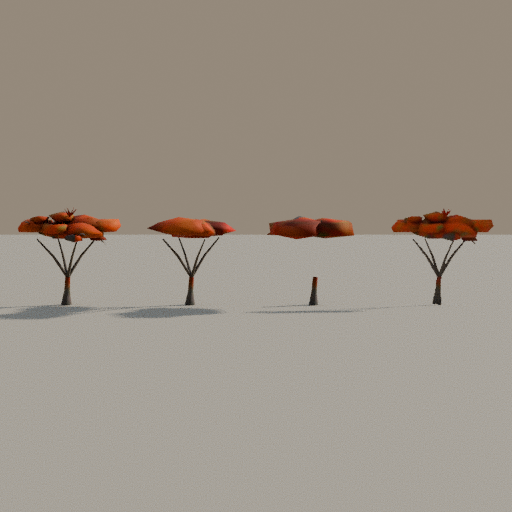
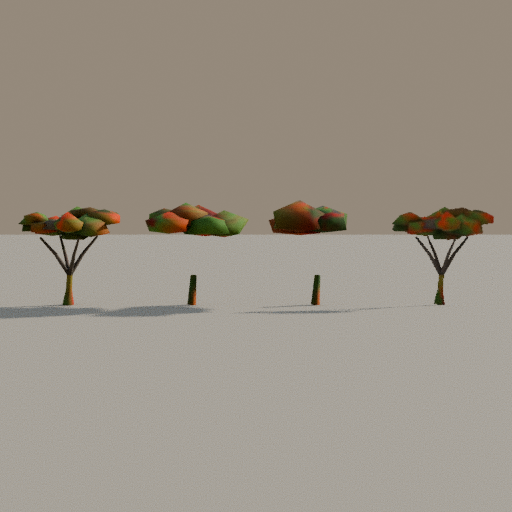
Nostalgia props: WIP checkpoint (trees, fauna in progress)
Claude-Session: https://claude.ai/code/session_012JpAoggZPtHm9fJ1oEKQtE

Changed region(s): [[0.0, 0.375, 0.6875, 0.625], [0.75, 0.4062, 0.9688, 0.5938], [0.5938, 0.5312, 0.625, 0.5938]]

diff --git a/nostalgia/tools/blender/props_fauna.py b/nostalgia/tools/blender/props_fauna.py
@@ -316,7 +316,10 @@ def build_bird(A, S):
         tl = sheet('tail', rows, (lambda i, k, tm=tm: Mt[tm(i, k)]) if callable(tm) else Mt[tm])
         kit.weights(tl, 'tail')
         objs.append(tl)
-    # legs
+    # legs (built standing, then tucked back: the bind pose is a clean flight pose)
+    legobjs = []
+    bz = S['bodyZ']
+    tuck = S['clip'].get('tuck', 1.35)
     if S.get('legs'):
         L = S['legs']
         for s, sfx in ((1, 'L'), (-1, 'R')):
@@ -325,7 +328,7 @@ def build_bird(A, S):
             pts = [(s * hx, hy, hz)] + [(s * hx * k, y, z) for (k, y, z) in L.get('mid', [])] + [(s * hx, fy, 0.02 * sc)]
             lg = P.taper('leg', pts, L['r'], seg=3, mat=Mt[L['mat']], cap_end=False)
             kit.weights(lg, 'leg_' + sfx)
-            objs.append(lg)
+            legobjs.append(lg)
             tl_ = L['toe']
             tw = tl_ * 0.12
             fx = s * hx
@@ -338,8 +341,17 @@ def build_bird(A, S):
                 toes.append(sheet('toe', [[b - sd, b + sd], [b + d * ln - sd * 0.3, b + d * ln + sd * 0.3]], Mt[L['mat']]))
             for o in toes:
                 kit.weights(o, 'leg_' + sfx)
-            objs += toes
-    # rig
+            legobjs += toes
+    if S.get('legs'):
+        hip = V(S['legs']['hip'])
+        hip.x = 0
+        Mk = Matrix.Translation(hip) @ Matrix.Rotation(tuck, 4, 'X') @ Matrix.Translation(-hip)
+        for o in legobjs:
+            o.data.transform(Mk)
+        objs += legobjs
+    for o in objs:
+        o.data.transform(Matrix.Translation((0, 0, -bz)))
+    # rig (body centre at the origin)
     B = S['bones']
     bones = [('root', (0, 0, 0), (0, -0.4 * sc, 0), None),
              ('body', B['body'][0], B['body'][1], 'root')]
@@ -359,6 +371,10 @@ def build_bird(A, S):
         hx, hy, hz = S['legs']['hip']
         for s, sfx in ((1, 'L'), (-1, 'R')):
             bones.append(('leg_' + sfx, (s * hx, hy, hz), (s * hx, S['legs']['foot_y'], 0.0), S.get('leg_parent', 'root')))
+    if S.get('legs'):
+        bones = [b if not b[0].startswith('leg_') else (b[0], V(b[1]), Mk @ V(b[2]), b[3]) for b in bones]
+    bones = [(n, V(h) - V((0, 0, bz)), V(t) - V((0, 0, bz)), p) for n, h, t, p in bones]
+    bones[0] = ('root', V((0, 0, 0)), V((0, -0.4 * sc, 0)), None)
     arm = P.rig(A, A.id + '_rig', [(n, tuple(h), tuple(t), p) for n, h, t, p in bones])
     ob = P.finish_prop(A, objs, size=S.get('tex', 64), double=True, ao_strength=0.45)
     P.skin(A, ob, arm)
@@ -389,12 +405,14 @@ def bird_clips(A, arm, S, ob):
     neck_fly = C.get('neck_fly')       # egret: (neck rx, head rx)
     has_legs = bool(S.get('legs'))
 
-    def legs_tucked(Pd, k=1.0):
+    bz = S['bodyZ']
+
+    def landed(Pd):
+        Pd['root'] = (None, (0, 0, bz))
         if has_legs:
-            LR(Pd, 'leg', qe(tuck * k, 0, 0))
+            LR(Pd, 'leg', qe(-tuck, 0, 0))
 
     def flight_common(Pd):
-        legs_tucked(Pd)
         if neck_fly:
             Pd['neck'] = (qe(neck_fly[0], 0, 0), None)
             Pd['head'] = (qe(neck_fly[1], 0, 0), None)
@@ -439,6 +457,7 @@ def bird_clips(A, arm, S, ob):
     def perch(t):
         Pd = {}
         folded(Pd)
+        landed(Pd)
         # head: quick turns (look left, back, right, back) + a small nod
         yaw = 0.7 * win(t, 0.10, 0.14, 0.32, 0.36) - 0.6 * win(t, 0.55, 0.59, 0.80, 0.84)
         nod = 0.15 * win(t, 0.42, 0.45, 0.48, 0.51)
@@ -454,6 +473,7 @@ def bird_clips(A, arm, S, ob):
     def peck(t):
         Pd = {}
         folded(Pd)
+        landed(Pd)
         k = win(t, 0.05, 0.22, 0.38, 0.50) + win(t, 0.55, 0.68, 0.80, 0.95)
         jab = 0.12 * (win(t, 0.24, 0.27, 0.30, 0.34) + win(t, 0.70, 0.73, 0.75, 0.79))
         pk = C.get('peck', (0.7, 0.6, 0.0))
@@ -484,7 +504,7 @@ def bird_previews(A, S, main='perch', main_frame=20):
                   {'name': 'fly', 'clip': 'glide' if main != 'glide' else 'flap', 'frame': 0 if main != 'glide' else fr // 2, 'size': 320, 'samples': 16,
                    'view': {'az': -30, 'el': 40, 'fov': 30}}],
         'sheet': {'name': 'sheet', 'size': 160, 'samples': 10, 'cols': 8,
-                  'view': {'az': -20, 'el': 10, 'fov': 30, 'target': (0, 0, H * 0.5), 'dist': span * 1.0 / math.tan(math.radians(15)) * 0.62},
+                  'view': {'az': -20, 'el': 10, 'fov': 30, 'target': (0, 0, 0.0), 'dist': span * 1.0 / math.tan(math.radians(15)) * 0.62},
                   'frames': [('flap', int(round(fr * k / 6))) for k in range(6)] + [('glide', 0), (main if main != 'glide' else 'perch', 30)]},
     }
 
